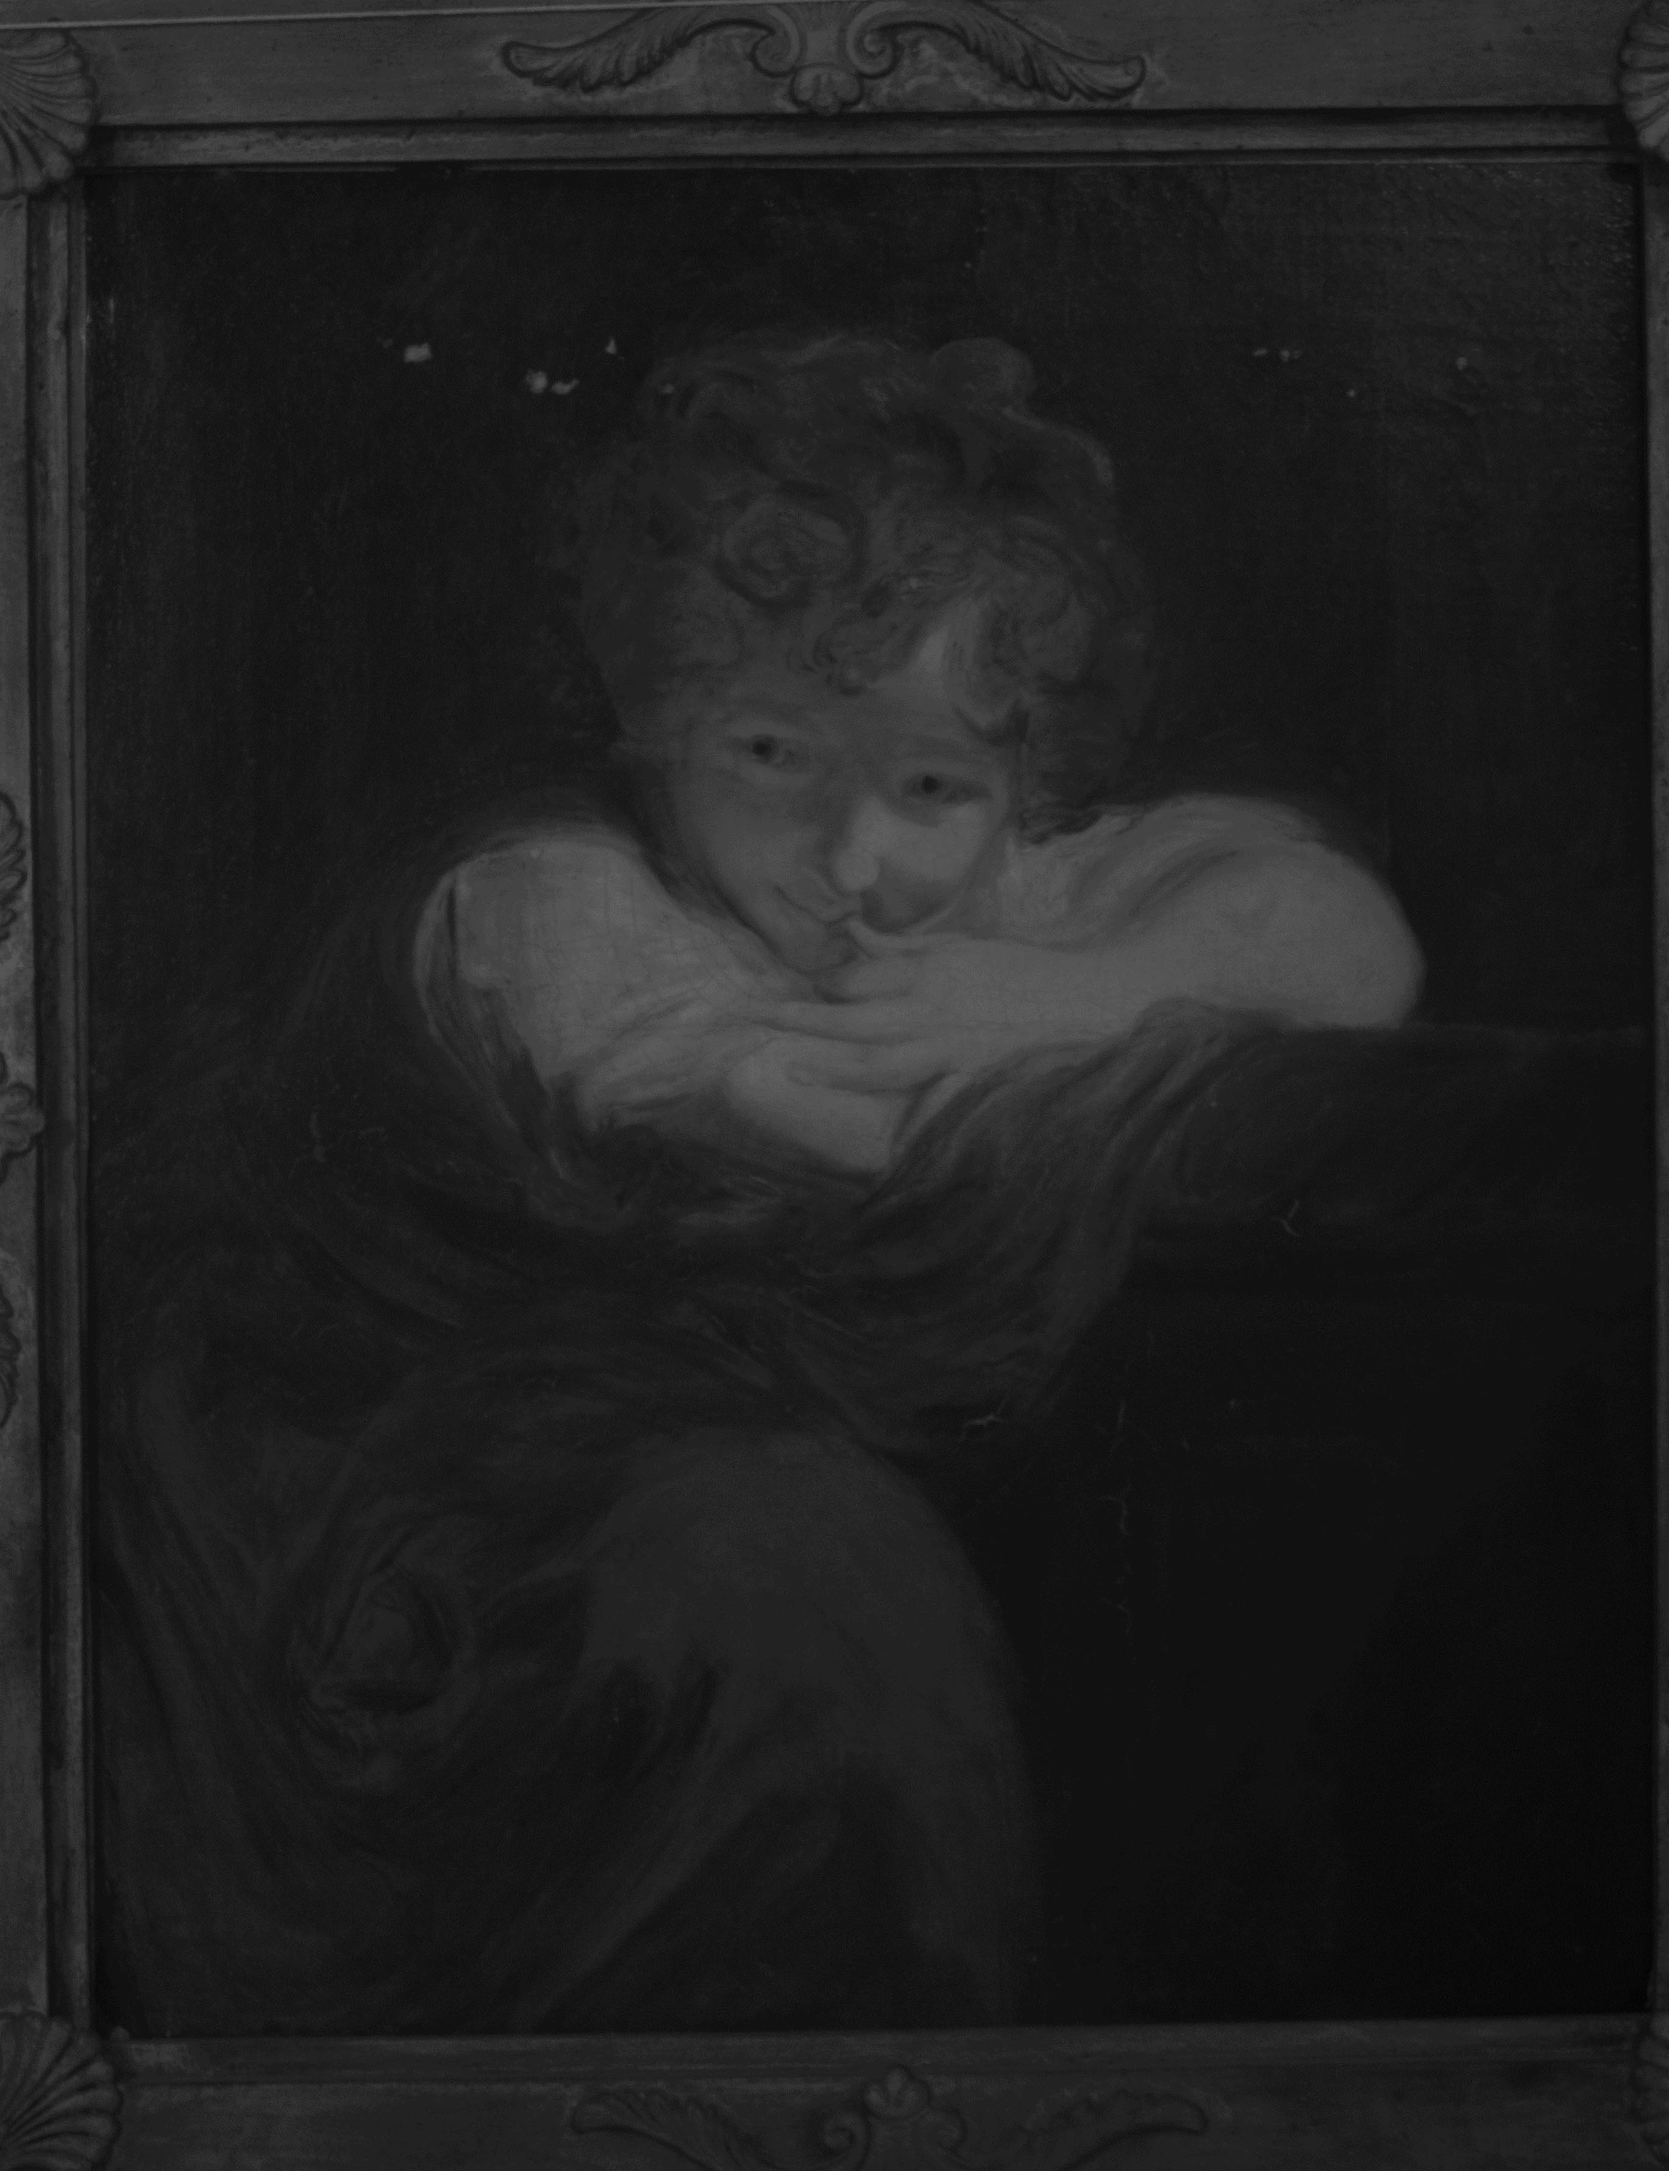
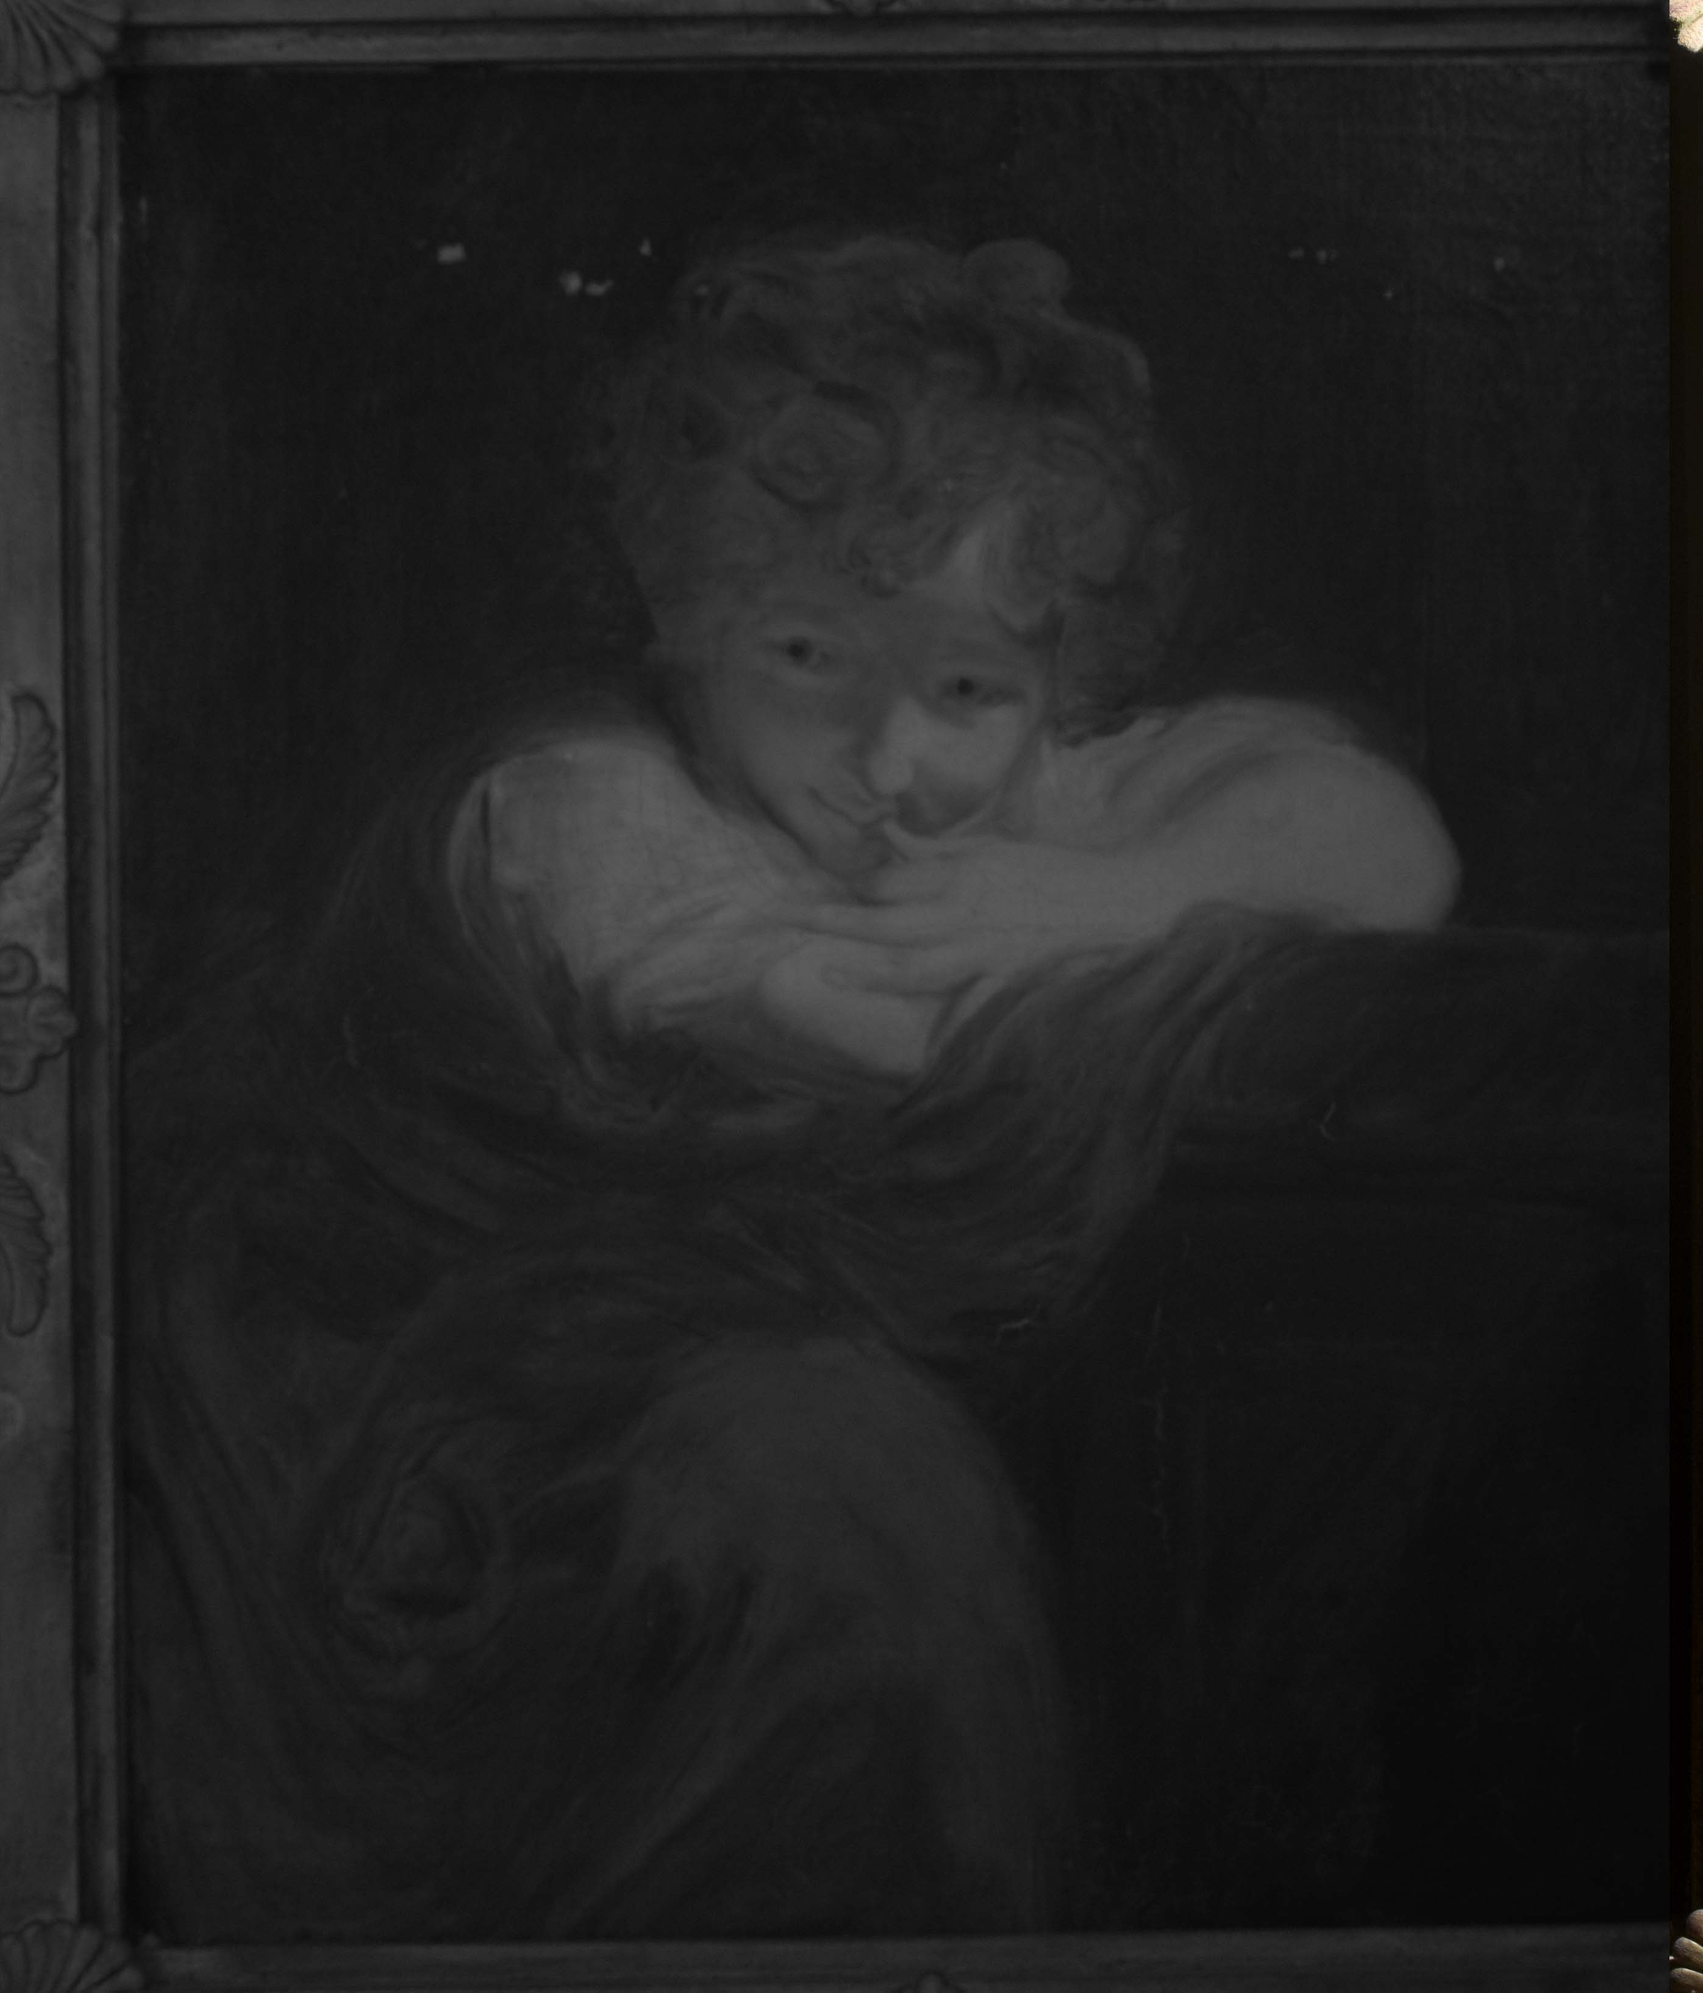
improves image

diff --git a/index.html b/index.html
@@ -35,6 +35,8 @@
           Figure one shows where visible light sits on the electromagnetic spectrum; different colours
           of light have different wavelengths, red being the longest and violet the shortest. (This is why when white light
           is split up into a rainbow through <strong>refraction</strong> red is always on the top, and blue always on the bottom).
+          <br/>
+          IMAGE OF ELECTROMAGNETIC SPECTRUM
 
           <h3>So how does this help analyse paintings?</h3>
 
@@ -50,7 +52,7 @@
 
           <br/>
           </br/>
-          IMAGE OF ELECTROMAGNETIC SPECTRUM
+
         </p>
       </div>
     </div>
@@ -71,12 +73,12 @@
         <!-- <img class="gif" src="images/STACK_small.gif"/> -->
 
         <figure class="cd-image-container">
-        	<img src="images/paintin.jpg" alt="Original Image">
-        	<span class="cd-image-label" data-type="original">Original</span>
+        	<img src="images/painting.jpg" alt="Original Image">
+        	<span class="cd-image-label" data-type="original">Ifrared</span>
 
         	<div class="cd-resize-img"> <!-- the resizable image on top -->
         		<img src="images/ir.jpg" alt="Modified Image">
-        		<span class="cd-image-label" data-type="modified">Modified</span>
+        		<span class="cd-image-label" data-type="modified">Visible</span>
         	</div>
 
         	<span class="cd-handle"></span> <!-- slider handle -->
